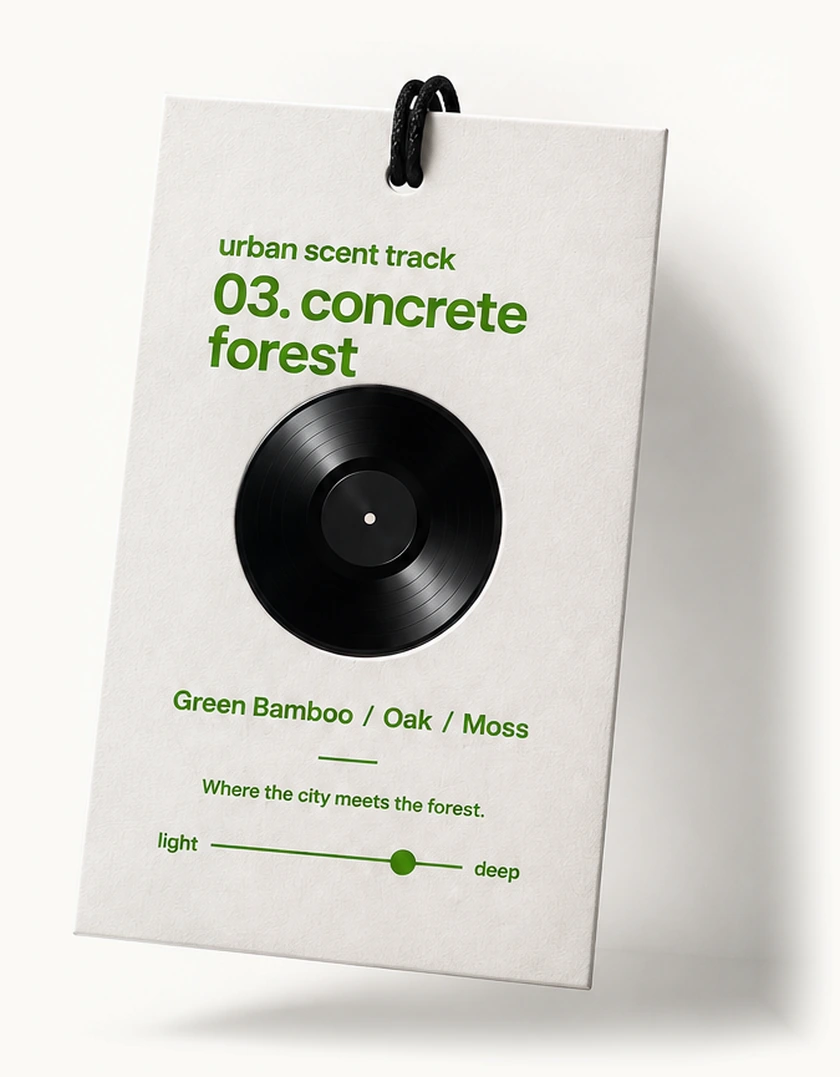
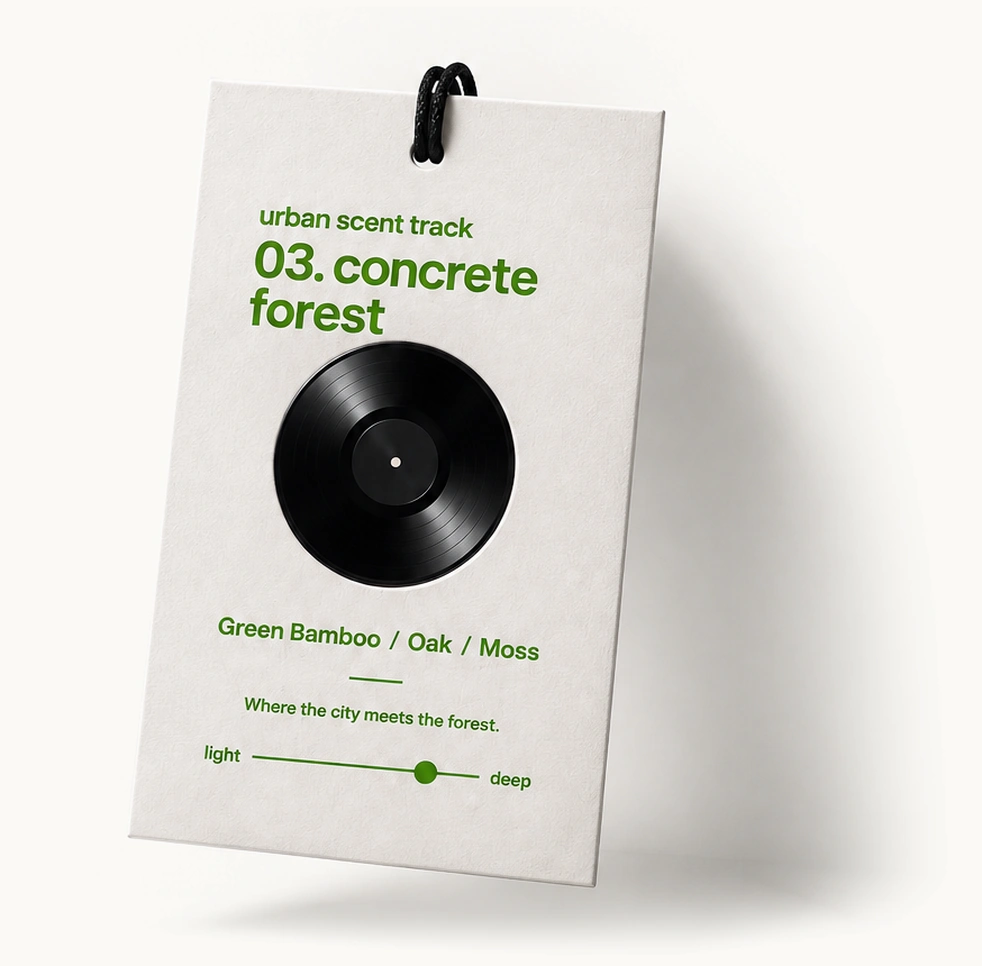
제품 사진이 가로로 눌려 기울어 보이던 문제 수정 + 원본 그림자 복원
- 원인: 제품 칼럼 폭이 271px로 고정돼 있어 img{max-width:100%}에 걸려 가로만 눌림
  (세로는 470px 고정 → 비율이 깨지면서 택이 실제보다 기울어 보였음)
- 칼럼 폭을 사진 실제 비율에 맞게 넓히고 max-width 해제, 텍스트 여백을 그만큼 축소
- 이전 크롭이 택 오른쪽 그림자를 잘라내 붕 떠 보이던 것도 원본 그림자를 살리도록 재작업
- 검증: 렌더링 화면의 택 기울기 +3.38° / -6.62°, 원본 +3.43° / -6.62° 로 일치

Claude-Session: https://claude.ai/code/session_0138ZKp8DuMDLTPzZn6MWR4y

diff --git a/index.html b/index.html
@@ -458,7 +458,9 @@
     position:relative; z-index:0; width:100%; display:flex; justify-content:center; margin:12px 0 6px;
   }
   .product-figure{ position:relative; z-index:1; }
-  .product-photo{ display:block; height:470px; width:auto; }
+  /* 사진은 세로 기준으로 크기를 잡되, img{max-width:100%}에 걸려 가로가 눌리지 않도록 해제
+     (가로가 눌리면 택이 실제보다 기울어져 보임) */
+  .product-photo{ display:block; height:470px; width:auto; max-width:none; }
 
   /* scent notes 버튼 — 구매 버튼 줄에 함께 놓이는 알약 버튼 */
   .notes-btn{
@@ -733,7 +735,7 @@
     .track-music{ font-size:0.82rem; margin-top:30px; }
     .buy-row{ margin-top:30px; }
 
-    .product-photo{ height:420px; }
+    .product-photo{ height:auto; width:min(430px,100%); }
 
     .buy-row{ flex-direction:column; gap:12px; width:100%; }
     /* 데스크탑용 버튼 래퍼 — 모바일에서는 기존처럼 세로로 쌓이게 */
@@ -769,7 +771,7 @@
     .intro{ padding:80px 18px; }
     .track-section{ padding:80px 18px; }
     .track-title{ letter-spacing:-0.035em; }
-    .product-photo{ height:min(390px,104vw); }
+    .product-photo{ height:auto; width:100%; }
     .bundle-stage .mini{ width:84px; margin-left:-14px; }
     .price-tag{ font-size:1.25rem; }
   }
@@ -799,7 +801,7 @@
       /* 바깥 두 칸의 비율로 카드+텍스트 묶음의 좌우 위치를 잡음.
          수학적 정중앙은 1fr/1fr이지만, 왼쪽 카드가 시각적으로 무거워
          광학 보정으로 오른쪽으로 약 40px 이동 (왼쪽 칸을 더 크게) */
-      grid-template-columns:1.7fr 271px auto 1fr;
+      grid-template-columns:1.4fr 480px auto 1fr;
       grid-template-rows:0.68fr repeat(8,auto) 1.32fr auto;
       align-items:center;
       column-gap:0; row-gap:0;
@@ -811,12 +813,12 @@
     /* 카드는 원래 크기 그대로 유지 — 가운데 묶음의 왼쪽에 배치 */
     .product-stage{
       grid-column:2; grid-row:2/10; margin:0;
-      justify-content:center; align-self:center;
+      justify-content:flex-start; align-self:center;
     }
     /* 카드와 텍스트 사이 간격은 텍스트쪽 padding으로 (grid item margin은 트랙을 좁혀 카드가 겹침) */
     .track-kicker, .track-title, .track-tagline, .track-tags,
     .track-desc, .track-music, .buy-row{
-      padding-left:clamp(80px,9.5vw,170px);
+      padding-left:clamp(16px,2.2vw,40px);
     }
 
     .track-kicker{
@@ -835,7 +837,7 @@
     .track-divider{
       grid-column:3/-1; grid-row:6;
       width:auto; height:1px; margin-top:28px;
-      margin-left:clamp(80px,9.5vw,170px);
+      margin-left:clamp(16px,2.2vw,40px);
       background:rgba(0,0,0,0.12); opacity:1;
     }
     .track-desc{ grid-column:3; grid-row:7; text-align:left; font-size:16px; line-height:1.75; max-width:none; margin-top:28px; }
@@ -1042,7 +1044,7 @@
 
     <div class="product-stage reveal d2">
       <div class="product-figure">
-        <img class="product-photo" src="assets/product-01.webp" width="840" height="1077" loading="lazy"
+        <img class="product-photo" src="assets/product-01.webp" width="982" height="966" loading="lazy"
              alt="Track 01 city citrus 차량용 종이 샤쉐 실제 제품 — 레몬·샌달우드·파출리">
       </div>
     </div>
@@ -1095,7 +1097,7 @@
 
     <div class="product-stage reveal d2">
       <div class="product-figure">
-        <img class="product-photo" src="assets/product-02.webp" width="840" height="1077" loading="lazy"
+        <img class="product-photo" src="assets/product-02.webp" width="1009" height="966" loading="lazy"
              alt="Track 02 clean cotton 차량용 종이 샤쉐 실제 제품 — 민트·코튼·화이트머스크">
       </div>
     </div>
@@ -1148,7 +1150,7 @@
 
     <div class="product-stage reveal d2">
       <div class="product-figure">
-        <img class="product-photo" src="assets/product-03.webp" width="840" height="1077" loading="lazy"
+        <img class="product-photo" src="assets/product-03.webp" width="982" height="966" loading="lazy"
              alt="Track 03 concrete forest 차량용 종이 샤쉐 실제 제품 — 그린뱀부·오크·모스">
       </div>
     </div>
